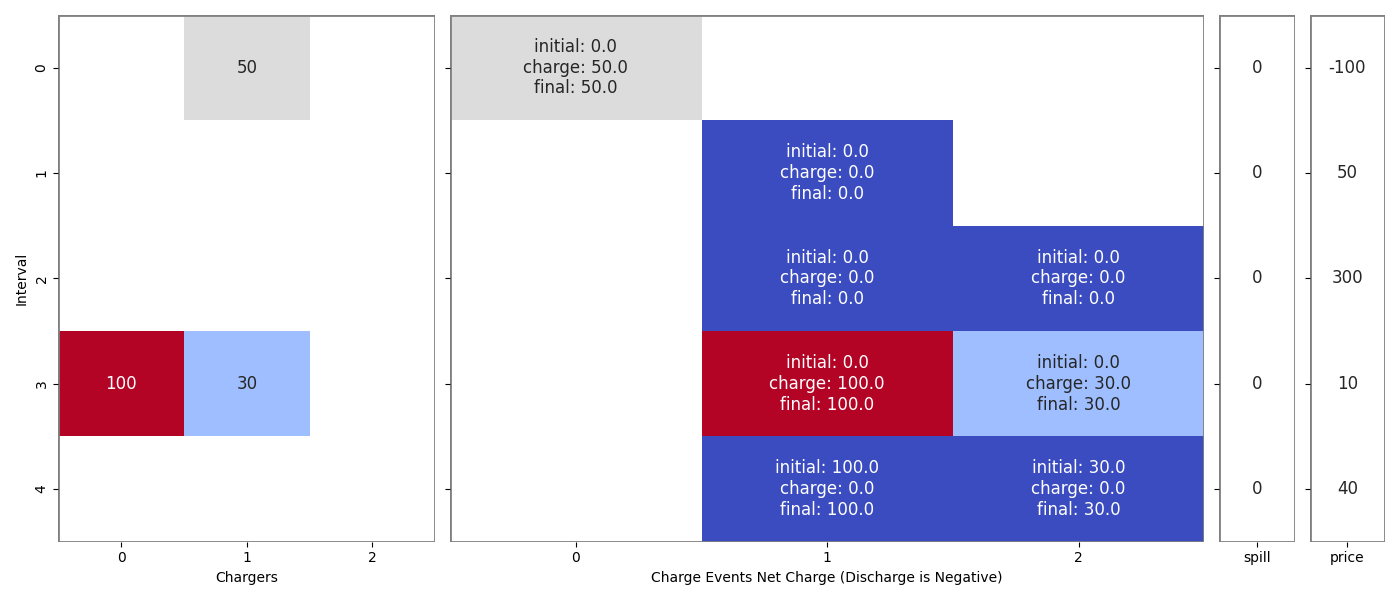
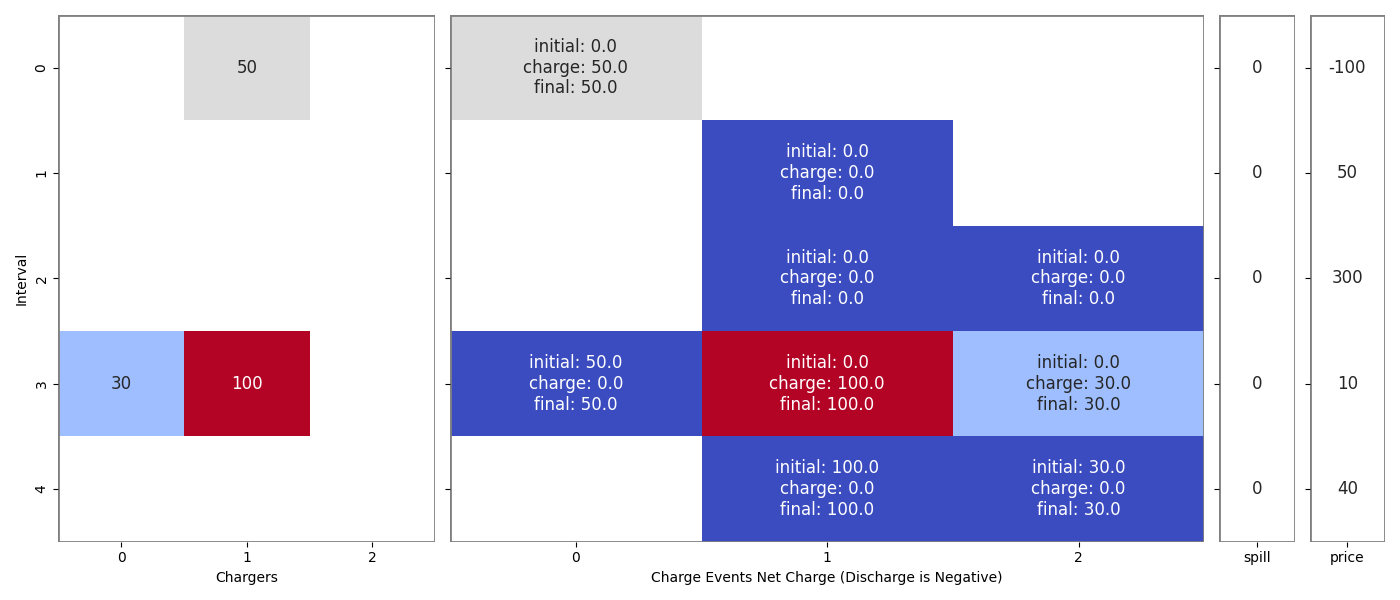
Deployed b62eed4 to 0.2.0 with MkDocs 1.4.3 and mike 1.1.2

Changed region(s): [[0.3071, 0.54, 0.5221, 0.75], [0.0307, 0.54, 0.2457, 0.75]]

diff --git a/0.2.0/validation/evs/index.html b/0.2.0/validation/evs/index.html
@@ -600,9 +600,10 @@
 <a id="__codelineno-0-16" name="__codelineno-0-16" href="#__codelineno-0-16"></a><span class="p">)</span>
 <a id="__codelineno-0-17" name="__codelineno-0-17" href="#__codelineno-0-17"></a><span class="n">asset</span><span class="o">.</span><span class="n">plot</span><span class="p">(</span><span class="n">results</span><span class="p">,</span> <span class="n">path</span><span class="o">=</span><span class="s2">&quot;./docs/docs/static/ev-validation-1.png&quot;</span><span class="p">)</span>
 </code></pre></div>
-<p>Note third charger - this is the spill charger</p>
+<p>The third charger is the spill charger.</p>
 <p><img alt="" src="../../static/ev-validation-1.png" /></p>
 <h2 id="expanding-a-charge-event-window">Expanding a Charge Event Window</h2>
+<p>Let's expand out the charge event window to the last three intervals for the last charge event:</p>
 <div class="highlight"><pre><span></span><code><a id="__codelineno-1-1" name="__codelineno-1-1" href="#__codelineno-1-1"></a><span class="kn">import</span> <span class="nn">energypylinear</span> <span class="k">as</span> <span class="nn">epl</span>
 <a id="__codelineno-1-2" name="__codelineno-1-2" href="#__codelineno-1-2"></a>
 <a id="__codelineno-1-3" name="__codelineno-1-3" href="#__codelineno-1-3"></a><span class="n">asset</span> <span class="o">=</span> <span class="n">epl</span><span class="o">.</span><span class="n">EVs</span><span class="p">(</span>
@@ -624,6 +625,7 @@
 <p>Now we see that the charge has happened in interval 3, this is because electricity prices are lowest in this interval.</p>
 <p><img alt="" src="../../static/ev-validation-2.png" /></p>
 <h2 id="overlapping-charge-events">Overlapping Charge Events</h2>
+<p>When charge events overlap at low prices, both (but only two) chargers are used:</p>
 <div class="highlight"><pre><span></span><code><a id="__codelineno-2-1" name="__codelineno-2-1" href="#__codelineno-2-1"></a><span class="kn">import</span> <span class="nn">energypylinear</span> <span class="k">as</span> <span class="nn">epl</span>
 <a id="__codelineno-2-2" name="__codelineno-2-2" href="#__codelineno-2-2"></a>
 <a id="__codelineno-2-3" name="__codelineno-2-3" href="#__codelineno-2-3"></a><span class="n">asset</span> <span class="o">=</span> <span class="n">epl</span><span class="o">.</span><span class="n">EVs</span><span class="p">(</span>
@@ -635,7 +637,7 @@
 <a id="__codelineno-2-9" name="__codelineno-2-9" href="#__codelineno-2-9"></a><span class="n">results</span> <span class="o">=</span> <span class="n">asset</span><span class="o">.</span><span class="n">optimize</span><span class="p">(</span>
 <a id="__codelineno-2-10" name="__codelineno-2-10" href="#__codelineno-2-10"></a>    <span class="n">electricity_prices</span><span class="o">=</span><span class="p">[</span><span class="o">-</span><span class="mi">100</span><span class="p">,</span> <span class="mi">50</span><span class="p">,</span> <span class="mi">300</span><span class="p">,</span> <span class="mi">10</span><span class="p">,</span> <span class="mi">40</span><span class="p">],</span>
 <a id="__codelineno-2-11" name="__codelineno-2-11" href="#__codelineno-2-11"></a>    <span class="n">charge_events</span><span class="o">=</span><span class="p">[</span>
-<a id="__codelineno-2-12" name="__codelineno-2-12" href="#__codelineno-2-12"></a>        <span class="p">[</span><span class="mi">1</span><span class="p">,</span> <span class="mi">0</span><span class="p">,</span> <span class="mi">0</span><span class="p">,</span> <span class="mi">0</span><span class="p">,</span> <span class="mi">0</span><span class="p">],</span>
+<a id="__codelineno-2-12" name="__codelineno-2-12" href="#__codelineno-2-12"></a>        <span class="p">[</span><span class="mi">1</span><span class="p">,</span> <span class="mi">0</span><span class="p">,</span> <span class="mi">0</span><span class="p">,</span> <span class="mi">1</span><span class="p">,</span> <span class="mi">0</span><span class="p">],</span>
 <a id="__codelineno-2-13" name="__codelineno-2-13" href="#__codelineno-2-13"></a>        <span class="p">[</span><span class="mi">0</span><span class="p">,</span> <span class="mi">1</span><span class="p">,</span> <span class="mi">1</span><span class="p">,</span> <span class="mi">1</span><span class="p">,</span> <span class="mi">1</span><span class="p">],</span>
 <a id="__codelineno-2-14" name="__codelineno-2-14" href="#__codelineno-2-14"></a>        <span class="p">[</span><span class="mi">0</span><span class="p">,</span> <span class="mi">0</span><span class="p">,</span> <span class="mi">1</span><span class="p">,</span> <span class="mi">1</span><span class="p">,</span> <span class="mi">1</span><span class="p">],</span>
 <a id="__codelineno-2-15" name="__codelineno-2-15" href="#__codelineno-2-15"></a>    <span class="p">]</span>
@@ -643,9 +645,6 @@
 <a id="__codelineno-2-17" name="__codelineno-2-17" href="#__codelineno-2-17"></a><span class="n">asset</span><span class="o">.</span><span class="n">plot</span><span class="p">(</span><span class="n">results</span><span class="p">,</span> <span class="n">path</span><span class="o">=</span><span class="s2">&quot;./docs/docs/static/ev-validation-3.png&quot;</span><span class="p">)</span>
 </code></pre></div>
 <p><img alt="" src="../../static/ev-validation-3.png" /></p>
-<p>we have moved our 100 MWh charging into the third interval</p>
-<p>our first charge event is still at the negative price because splitting our 100 MWh load would be worse</p>
-<p>do the math here just as a fyi</p>
 <h2 id="adding-v2g">Adding V2G</h2>
 <div class="highlight"><pre><span></span><code><a id="__codelineno-3-1" name="__codelineno-3-1" href="#__codelineno-3-1"></a><span class="kn">import</span> <span class="nn">energypylinear</span> <span class="k">as</span> <span class="nn">epl</span>
 <a id="__codelineno-3-2" name="__codelineno-3-2" href="#__codelineno-3-2"></a>
